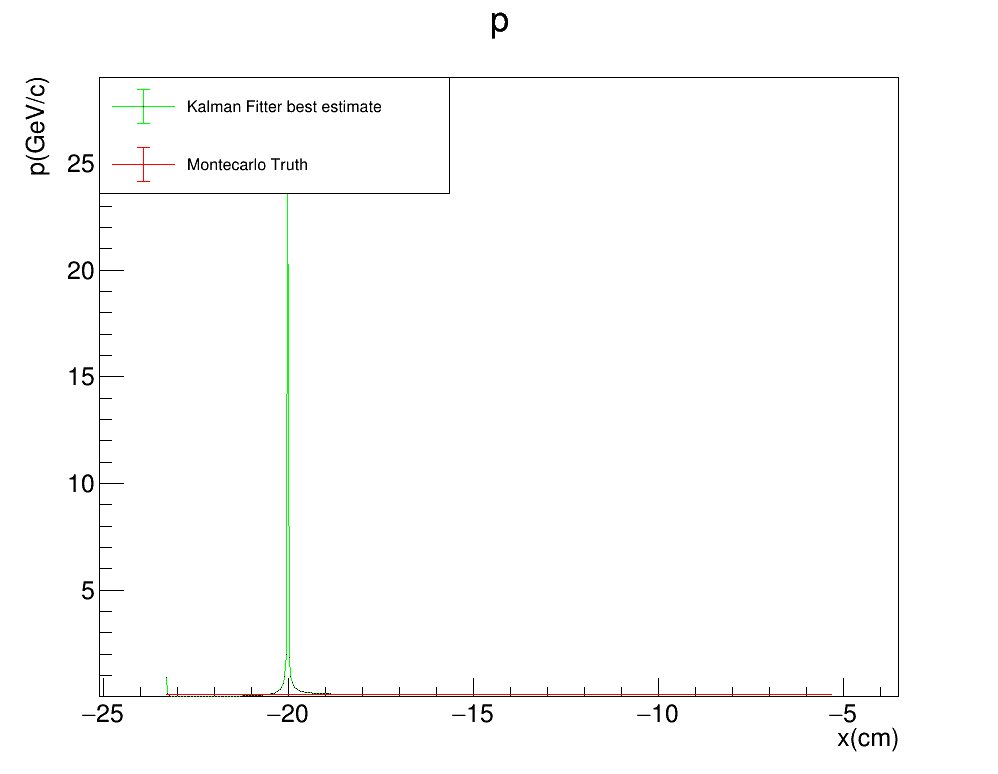
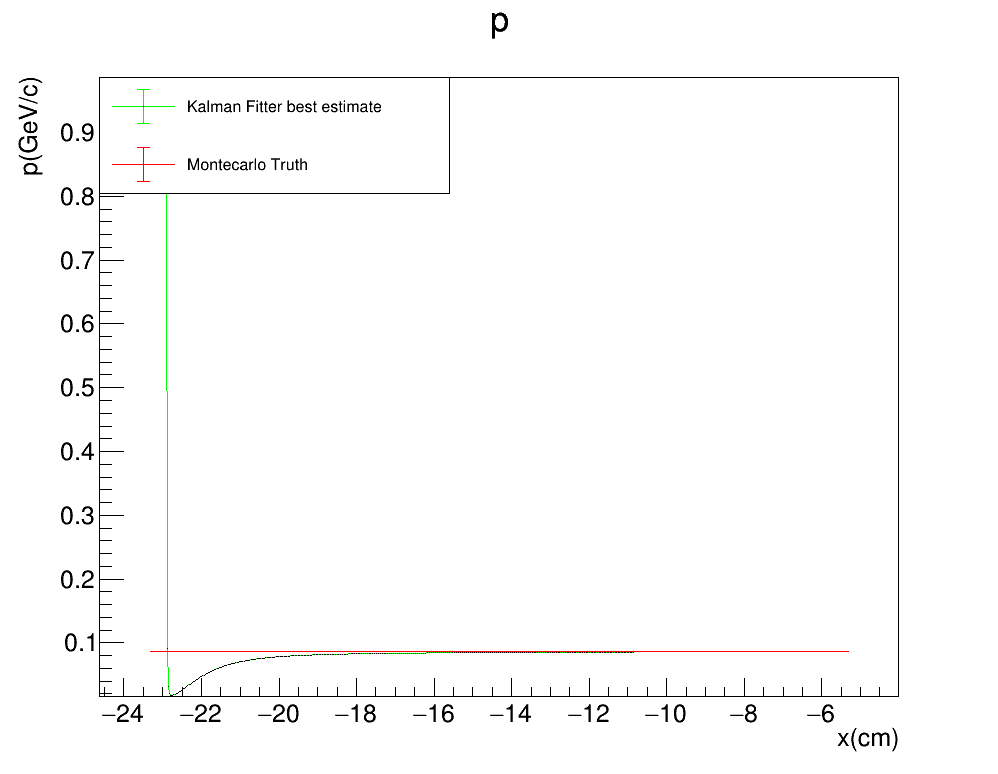
functioning kalman filter Toy Montecarlo ROOT macro

diff --git a/kalman/helix/kalman_helix.C b/kalman/helix/kalman_helix.C
@@ -49,16 +49,16 @@
     {
 
       
-      size_t n = 100;
+      size_t n = 452;
       float fPrintLevel=0;
       
       // estimate curvature, lambda, phi, xpos from the initial track parameters
-      float curvature_init=0.1;         ///need to check what this is
-      float phi_init = 0;
-      float lambda_init = 0;
-      float xpos_init=0;
-      float ypos_init=0;
-      float zpos_init=0;
+      float curvature_init= 0.00133671;         ///need to check what this is
+      float phi_init = 2.41558;
+      float lambda_init = 0.0373353;
+      float xpos_init= -23.0761;
+      float ypos_init=-340.074;
+      float zpos_init=1638.21;
       
       
 
@@ -80,9 +80,9 @@
       //need to check this
       TMatrixF Q(5,5);
       Q.Zero();
-      Q[2][2] = 2;     // allow for some curvature uncertainty between points
-      Q[3][3] = 2;      // phi
-      Q[4][4] = 2;   // lambda
+      Q[2][2] = 1e-09;     // allow for some curvature uncertainty between points
+      Q[3][3] = 1e-09;      // phi
+      Q[4][4] = 0.0001;   // lambda
 
       // Noise covariance on the measured points.
       // 16 cm2 initially, might reasonably be lowered to typicalResidual near line 552-67
@@ -140,9 +140,9 @@
 
       
       //Create a parametrized helix as a substitute for the measurement
-      float xh = 0;  ///need to check what this is
-      float yh = 0;
-      float zh = 0;
+      float xh = -23.3112;  ///need to check what this is
+      float yh = -337.045;
+      float zh = 1634.73;
       float phih = 6;
       float curvatureh =-0.014;
       float lambdah =-0.05;
@@ -371,7 +371,7 @@
 
       
 
-      TFile f("rootmacro_perfect_helix.root","update");
+      TFile f("rootmacro_perfect_helix.root","recreate");
       TTree t1_FWD("t1_FWD","Forward fitter tree");
       float xht,yht,zht,xpost;
       int ev;

diff --git a/kalman/helix/tpctrackfit2_module_helix.cc b/kalman/helix/tpctrackfit2_module_helix.cc
@@ -410,7 +410,7 @@ namespace gar {
           return 1;
         }
 
-      std::cout<<"curvature_init: "<<curvature_init<<" phi_init: "<<phi_init<<" lambda_init: "<<lambda_init<<" xpos_init: "<<xpos_init<<" ypos_init: "<<ypos_init<<" zpos_init: "<<zpos_init<<std::endl
+      std::cout<<"curvature_init: "<<curvature_init<<" phi_init: "<<phi_init<<" lambda_init: "<<lambda_init<<" xpos_init: "<<xpos_init<<" ypos_init: "<<ypos_init<<" zpos_init: "<<zpos_init<<std::endl;
       std::cout<<"nTPCClusters: "<<nTPCClusters<<std::endl;
 
       // Kalman fitter variables

diff --git a/kalman/kalana_mac.C b/kalman/kalana_mac.C
@@ -19,7 +19,7 @@
 
 void kalana_mac()
 {
-    kalana kal = kalana("t1_FWD;1","helix/perfect_helix_measx.root");
+    kalana kal = kalana("t1_FWD;1","helix/rootmacro_perfect_helix.root");
     kal.Loop();
     garana g;
 
